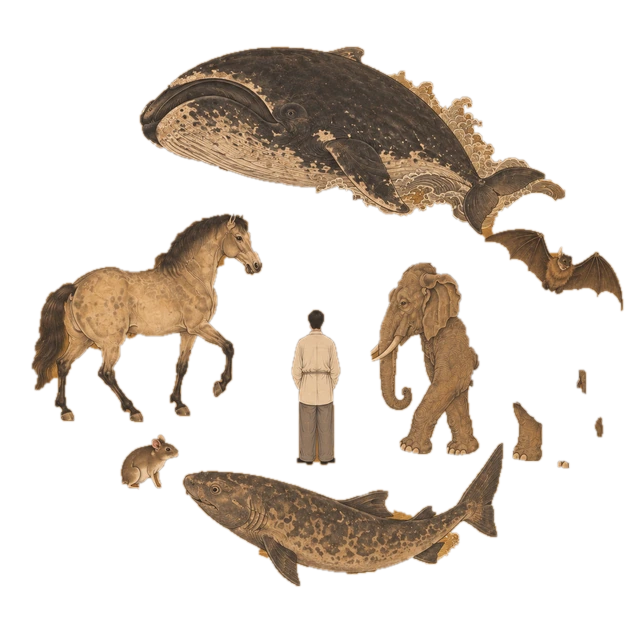
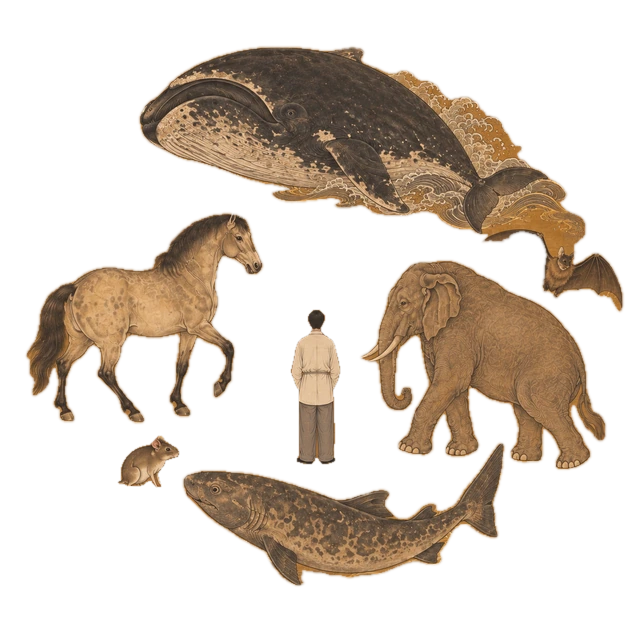
Separate merged animals in the particle masks and name Stanford in the opening chip
Masks now come from Apple Vision subject lifting, run repeatedly with found
subjects painted out, plus small outline-found figures; the lineup baseline
offset moves to 0.2382 for the new crop.

diff --git a/index.html b/index.html
@@ -53,7 +53,7 @@
     <i class="star star-l" aria-hidden="true"></i><i class="star star-r" aria-hidden="true"></i>
   </div>
   <div class="wrap hero-foot">
-    <p class="label chip">Opening January 2027</p>
+    <p class="label chip">Opening January 2027 at Stanford University</p>
     <p class="hero-lede">We build AI models of how organisms age, use them to find and design interventions, and test what the models propose. Brain resilience is our first system.</p>
   </div>
   <p class="label scroll-cue" aria-hidden="true">Scroll</p>
@@ -244,7 +244,7 @@
         <a href="https://twitter.com/kejunying/" rel="noopener">X</a>
         <a href="https://www.linkedin.com/in/kejun-albert-ying/" rel="noopener">LinkedIn</a>
       </p>
-      <p class="founding">The lab opens in January 2027, and the first members will shape how it works. <a href="#join">See who we are looking for.</a></p>
+      <p class="founding">The lab opens at Stanford University in January 2027, and the first members will shape how it works. <a href="#join">See who we are looking for.</a></p>
     </div>
   </div>
 </section>

diff --git a/film.js b/film.js
@@ -111,7 +111,7 @@
   // (offset from the image centre as a fraction of its height) and where the drawn line ends.
   var TANG = ART === 'p-tang-';
   // baseline offset from the painting's centre (fraction of its height) and where the drawn line ends
-  var LAY = TANG ? { base: 0.1923, right: 0.49 } : { base: 0.4576, right: 0.487 };
+  var LAY = TANG ? { base: 0.2382, right: 0.49 } : { base: 0.4576, right: 0.487 };
   var SOURCES = [
     { src: 'assets/img/' + ART + 'lineup.webp?v=t3', boostTo: 0.22, boost: 2.6 },   // the small animals get more points than their area would earn
     { src: 'assets/img/' + ART + (TANG ? 'brain' : 'species') + '.webp?v=t3' },   // Tang: the brain among the longest-lived species
